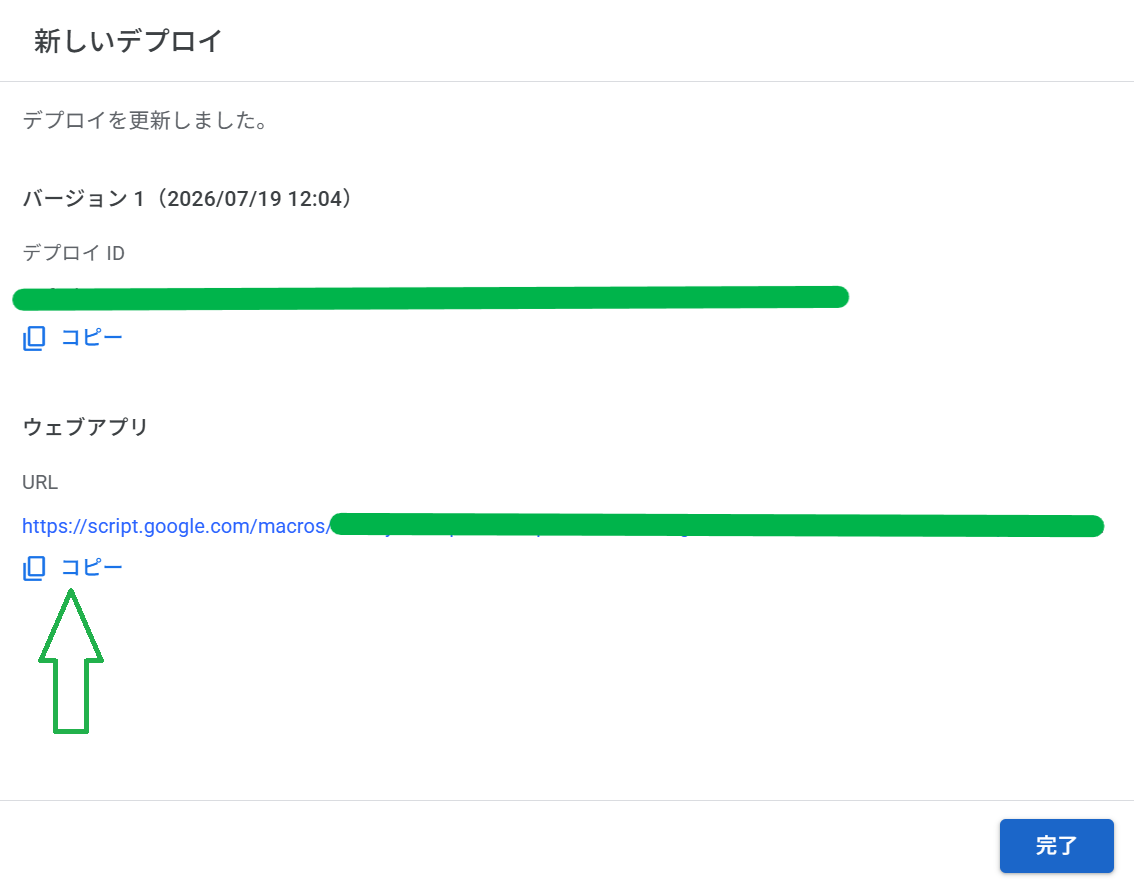
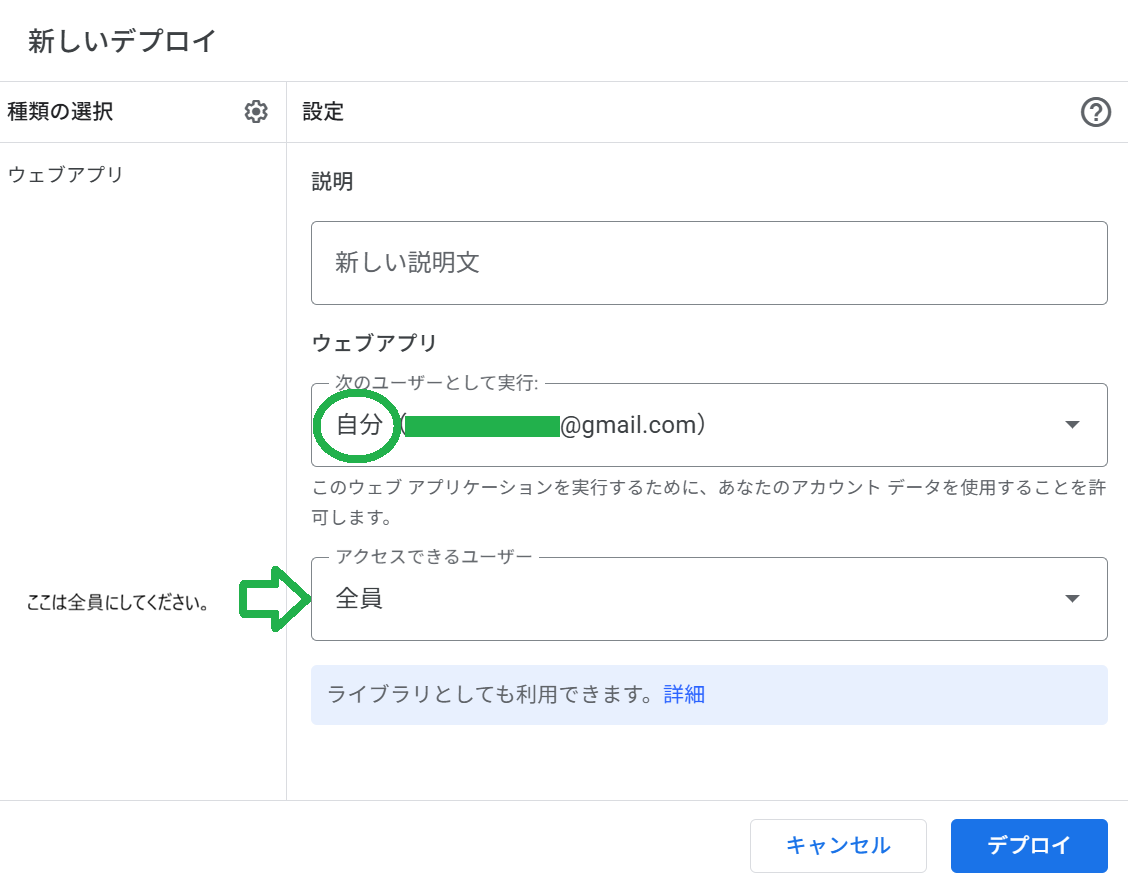
ランダム5問

diff --git a/teacher.html b/teacher.html
@@ -76,6 +76,7 @@
                 Googleスプレッドシートへ保存されます。
             </p>
             <img src="picture/guide2-1.png" alt="Googleスプレッドシートへのリンク" class="guide-image">
+            <p>Googleスプレッドシートを開くと以下のようになります。</p>
             <img src="picture/guide2-2.png" alt="Googleスプレッドシートの画面" class="guide-image">
         </section>
 
@@ -91,7 +92,9 @@
             <p>
                 作成されたプロジェクトに以下のコードを貼り付けます。
             </p>
-            <pre>
+        <div class="code-box">
+            <button id="copy-gas-btn" class="copy-btn">コピー</button>
+            <pre id="gas-code">
 function doGet() {
 
         const sheet =
@@ -140,7 +143,9 @@ function doGet() {
     );
 }
             </pre>
+            </div>
             <img src="picture/guide3-1.png" alt="Apps Scriptを開く画面" class="guide-image">
+            <p>Apps Scriptを開くと以下のような画面になります。もともとのコードを削除し、先ほどコピーしたコードを貼り付けます。</p>
             <img src="picture/guide3-2.png" alt="Apps Scriptのコード編集画面" class="guide-image">
         </section>
 
@@ -160,7 +165,8 @@ function doGet() {
             </p>
             <img src="picture/guide4-1.png" alt="デプロイ画面" class="guide-image">
             <img src="picture/guide4-2.png" alt="新しいデプロイからウェブアプリ" class="guide-image">
-            <img src="picture/guide4-3.png" alt="デプロイ後のURL" class="guide-image">
+            <img src="picture/guide4-3.png" alt="アクセス権限の設定" class="guide-image">
+            <img src="picture/guide4-4.png" alt="デプロイ後のURL" class="guide-image">
         </section>
 
         <section class="guide-card">
@@ -171,9 +177,14 @@ function doGet() {
                 「quiz.js」の取得先URLとして設定することで、
                 Googleフォームで集めた問題をクイズに反映できます。
             </p>
+            <p>矢印の部分を先ほどコピーしたURLに置き換えてください。
+            </p>
+            <p>↓quiz.js</p>
             <img src="picture/guide5-1.png" alt="作問の森(quiz.js)との連携" class="guide-image">
+            <p>↓index.js</p>
+            <img src="picture/guide5-2.png" alt="作問の森(quiz.js)との連携" class="guide-image">
             <p>
-            以上で設定は終わりです。    
+            以上で設定は終わりです。おつかれさまでした。    
             </p>
         </section>
 
@@ -186,12 +197,30 @@ function doGet() {
             </p>
 
             <p>
-                このガイドは、将来的に他校で利用する際の参考資料として
-                作成しています。
+                このガイドは、将来的に他校で利用する際の参考資料として作成しています。
             </p>
         </section>
 
     </div>
+<script>
+document
+.getElementById('copy-gas-btn')
+.addEventListener('click', function () {
+
+    const code =
+        document.getElementById('gas-code')
+        .textContent;
+
+    navigator.clipboard.writeText(code);
+
+    this.textContent = 'コピー完了';
+
+    setTimeout(() => {
+        this.textContent = 'コピー';
+    }, 2000);
+
+});
+</script>
 
 </body>
 </html>

diff --git a/quiz.js b/quiz.js
@@ -37,7 +37,22 @@ if (Array.isArray(item.answers)) {
         ratings: item.ratings || { fun: 0, useful: 0, difficult: 0 }
     };
 }
+function shuffleArray(array) {
 
+    const shuffled = [...array];
+
+    for (let i = shuffled.length - 1; i > 0; i--) {
+
+        const j = Math.floor(
+            Math.random() * (i + 1)
+        );
+
+        [shuffled[i], shuffled[j]] =
+            [shuffled[j], shuffled[i]];
+    }
+
+    return shuffled;
+}
 async function loadQuizzesData() {
     try {
         const response = await fetch('https://script.google.com/macros/s/AKfycbztQoWbf96IXurDhfTeLqDA3eMbsUu7zEQwQKNjQvZzq9k8hdp4LoopCPsMuW3-z1uuFA/exec');
@@ -55,6 +70,25 @@ async function loadQuizzesData() {
         );
         console.log(quizzesData);
     }
+    if (Array.isArray(data)) {
+
+    quizzesData = [];
+
+    for (const item of data) {
+        quizzesData.push(
+            normalizeQuiz(item)
+        );
+    }
+
+    // シャッフル
+    quizzesData = shuffleArray(quizzesData);
+
+    // 5問だけ抽出
+    quizzesData = quizzesData.slice(0, 5);
+
+}
+
+
 
     const storedRatings = JSON.parse(localStorage.getItem(STORAGE_KEY) || '[]');
     if (Array.isArray(storedRatings)) {

diff --git a/style.css b/style.css
@@ -603,3 +603,33 @@ body.forest-mode {
     border-radius: 12px;
     border: 2px solid #d5d5d5;
 }
+
+.code-box {
+    position: relative;
+}
+
+.copy-btn {
+    position: absolute;
+    top: 10px;
+    right: 10px;
+
+    border: none;
+    padding: 8px 12px;
+    border-radius: 8px;
+
+    cursor: pointer;
+
+    background: #4caf50;
+    color: white;
+}
+
+.copy-btn:hover {
+    background: #3d9140;
+}
+
+.code-box pre {
+    background: #f4f4f4;
+    padding: 20px;
+    border-radius: 12px;
+    overflow-x: auto;
+}

diff --git a/index.js b/index.js
@@ -16,8 +16,8 @@ function saveQuestionsToStorage(data) {
 
 async function loadQuestionsForRanking() {
     try {
-        const response = await fetch('questions.json');
-        if (!response.ok) throw new Error('questions.json not found');
+        const response = await fetch('https://script.google.com/macros/s/AKfycbztQoWbf96IXurDhfTeLqDA3eMbsUu7zEQwQKNjQvZzq9k8hdp4LoopCPsMuW3-z1uuFA/exec');
+        if (!response.ok) throw new Error('not found');
         const questions = await response.json();
         const stored = loadQuestionsFromStorage();
 
@@ -40,7 +40,7 @@ async function loadQuestionsForRanking() {
         if (!rankingList) return;
 
         rankingList.innerHTML = '';
-        sorted.forEach((item, index) => {
+        sorted.slice(0, 5).forEach((item, index) => {
             const total = (item.ratings?.fun || 0) + (item.ratings?.useful || 0) + (item.ratings?.difficult || 0);
             const li = document.createElement('li');
             li.className = 'ranking-item';